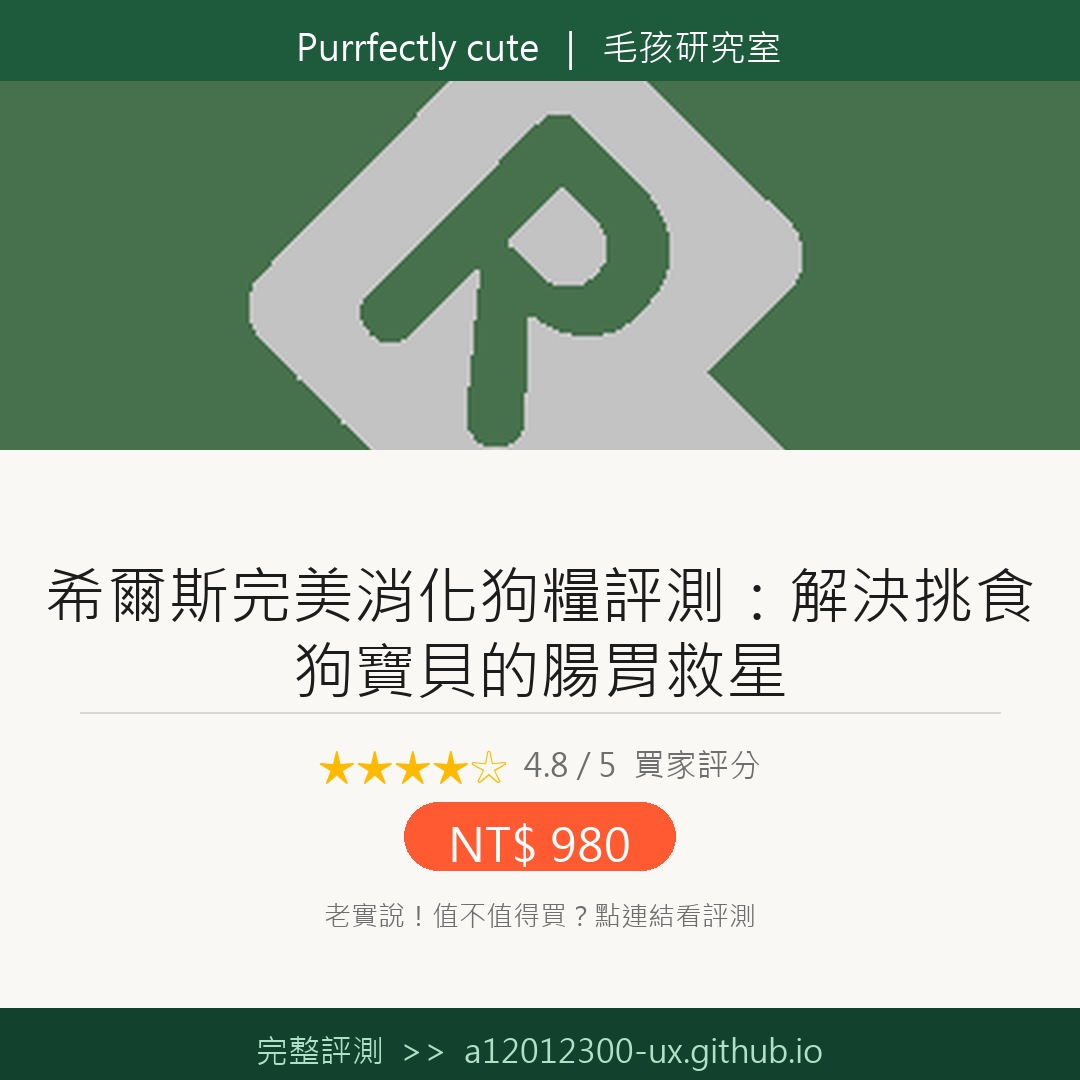
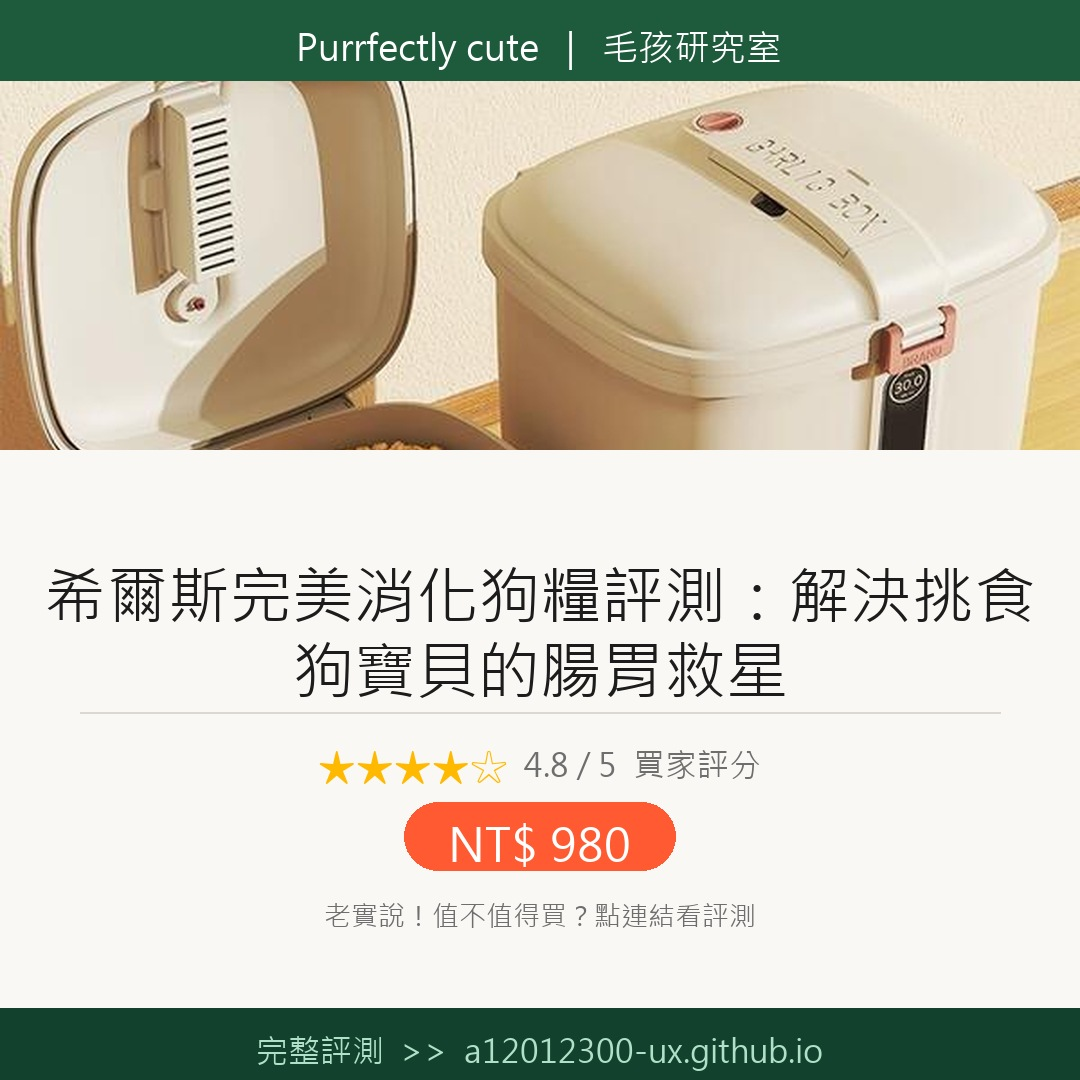
fix: 過濾露天佔位圖（< 20KB），確保圖文卡只用真實商品照片

diff --git a/build.py b/build.py
@@ -128,10 +128,10 @@ def _fetch_shopee_img(keyword: str, name: str = "", count: int = 4) -> list:
             try:
                 search_url = (
                     "https://rtapi.ruten.com.tw/api/search/v3/index.php/core/prod"
-                    "?q=" + _q(q) + "&type=direct&start=1&limit=8&sort=rnk/dc"
+                    "?q=" + _q(q) + "&type=direct&start=1&limit=16&sort=rnk/dc"
                 )
                 rows = _req.get(search_url, headers=h, timeout=10).json().get("Rows", [])
-                ids  = ",".join(p["Id"] for p in rows[:8] if "Id" in p)
+                ids  = ",".join(p["Id"] for p in rows[:16] if "Id" in p)
                 if not ids:
                     continue
                 details = _req.get(
@@ -142,12 +142,17 @@ def _fetch_shopee_img(keyword: str, name: str = "", count: int = 4) -> list:
                     if len(results) >= count:
                         break
                     img_path = d.get("Image", "")
-                    if img_path:
-                        if img_path.startswith("http"):
-                            img_url = img_path
-                        else:
-                            img_url = "https://d.rimg.com.tw" + img_path
-                        results.append(img_url)
+                    if not img_path:
+                        continue
+                    img_url = img_path if img_path.startswith("http") \
+                              else "https://d.rimg.com.tw" + img_path
+                    # 下載檢查：過濾佔位圖（< 20KB 通常是 logo 或無圖）
+                    try:
+                        ir = _req.get(img_url, headers=h, timeout=8)
+                        if ir.status_code == 200 and len(ir.content) >= 20_000:
+                            results.append(img_url)
+                    except Exception:
+                        continue
             except Exception:
                 continue
             if len(results) >= count:
